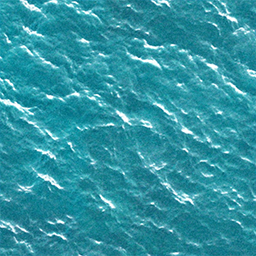
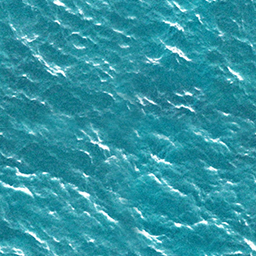
Adds basic water material

diff --git a/src/client/engine/Chunk.ts b/src/client/engine/Chunk.ts
@@ -4,6 +4,7 @@ import ChunkWorld from './ChunkWorld';
 import Doodad from './Doodad';
 import TerrainMaterial, { ImageData3D } from './graphics/materials/TerrainMaterial';
 import AssetManager from './asset/AssetManager';
+import WaterMaterial from './graphics/materials/WaterMaterial';
 
 export default class Chunk {
     public def: ChunkDef;
@@ -18,15 +19,19 @@ export default class Chunk {
     private minimapCanvas: OffscreenCanvas;
     public get minimap(): OffscreenCanvas { return this.minimapCanvas; }
 
-    public constructor(def: ChunkDef, world: ChunkWorld, material: TerrainMaterial) {
+    private waterMaterial: WaterMaterial;
+
+    public constructor(def: ChunkDef, world: ChunkWorld, material: TerrainMaterial, waterMat: WaterMaterial) {
         this.def = def;
         this.world = world;
         this.material = material;
+        this.waterMaterial = waterMat;
         this._isLoaded = false;
         const geometry = this.generateTerrain();
         geometry.computeVertexNormals();
 
-        this.terrain = new THREE.Mesh(geometry, material);
+        // this.terrain = new THREE.Mesh(geometry, material);
+        this.terrain = new THREE.Mesh(geometry, waterMat);
         this.terrain.name = 'terrain';
         this.terrain.receiveShadow = true;
         this.terrain.castShadow = true;
@@ -105,8 +110,11 @@ export default class Chunk {
 
     public static load(def: ChunkDef, world: ChunkWorld): Promise<Chunk> {
         return new Promise((resolve, reject) => {
-            AssetManager.loadTerrainTexture(def).then((tex) => {
-                resolve(new Chunk(def, world, new TerrainMaterial(tex)));
+            Promise.all([
+                AssetManager.loadTerrainTexture(def),
+                AssetManager.loadTexture('assets/terrain/water/diffuse.png'),
+            ]).then(([tex, waterTex]) => {
+                resolve(new Chunk(def, world, new TerrainMaterial(tex), new WaterMaterial(waterTex)));
             }).catch((err) => reject(err));
         });
     }
@@ -254,7 +262,7 @@ export default class Chunk {
             for (let ix = 0; ix < size; ix++) {
                 const x = ix * tileWidth - (size / 2);
                 const y = this.def.heightmap[iz * size + ix] || 0;
-                vertices.push(x, y, z);
+                vertices.push(x, 0.0, z); // FIXME
                 // const uvidx = (iz * size + ix) * 2;
                 // const u = this.def.texturemap[uvidx];
                 // const v = this.def.texturemap[uvidx + 1];
@@ -284,5 +292,9 @@ export default class Chunk {
         geom.setAttribute('uv', new THREE.Float32BufferAttribute(uvs, 2));
 
         return geom;
+    }
+
+    public update(delta: number): void {
+        this.waterMaterial.update(delta);
     }
 }

diff --git a/src/client/engine/graphics/materials/WaterMaterial.ts b/src/client/engine/graphics/materials/WaterMaterial.ts
@@ -1,0 +1,64 @@
+import * as THREE from 'three';
+import waterVertex from './shaders/water.v.glsl';
+import waterFrag from './shaders/water.f.glsl';
+
+export type ImageData3D = { data: Uint8Array, width: number, height: number, depth: number };
+
+export default class WaterMaterial extends THREE.ShaderMaterial {
+    public texture: THREE.Texture;
+    private time: number = 0;
+
+    public constructor(texture: THREE.Texture) {
+        super({
+            lights: true,
+            fog: true,
+
+            uniforms: {
+                u_tiling: { value: new THREE.Vector2(16, 16) },
+                u_diffuseMap: { value: texture },
+                u_time: { value: 0 },
+                u_amplitude: { value: 1 },
+                u_wavelength: { value: 2 },
+                u_flowRate: { value: new THREE.Vector2(0.05, 0.01) },
+
+                emissive: { value: new THREE.Vector3(0.0, 0.0, 0.0) },
+                opacity: { value: 1.0 },
+
+                // required for 'lights: true'
+                ambientLightColor: { value: null },
+                lightProbe: { value: null },
+                directionalLights: { value: null },
+                spotLights: { value: null },
+                rectAreaLights: { value: null },
+                pointLights: { value: null },
+                hemisphereLights: { value: null },
+                directionalShadowMap: { value: null },
+                directionalShadowMatrix: { value: null },
+                spotShadowMap: { value: null },
+                spotShadowMatrix: { value: null },
+                pointShadowMap: { value: null },
+                pointShadowMatrix: { value: null },
+
+                // required for 'fog: true'
+                fogColor: { value: new THREE.Color() },
+                fogNear: { value: null },
+                fogFar: { value: null },
+                fogDensity: { value: null },
+            },
+            vertexShader: waterVertex,
+            fragmentShader: waterFrag,
+        });
+
+        this.texture = texture;
+    }
+
+    public dispose(): void {
+        super.dispose();
+        this.texture.dispose();
+    }
+
+    public update(delta: number): void {
+        this.time += delta;
+        this.uniforms.u_time.value = this.time;
+    }
+}

diff --git a/src/client/engine/asset/AssetManager.ts b/src/client/engine/asset/AssetManager.ts
@@ -62,7 +62,6 @@ export function loadImage(src: string): Promise<HTMLImageElement> {
     });
 }
 
-
 export default class AssetManager {
     private static modelCache: Map<string, CachedModel> = new Map();
     private static atlasCache: Map<string, SpriteAtlas> = new Map();
@@ -108,6 +107,22 @@ export default class AssetManager {
             return atlas;
         }
         throw new Error(`Atlas not found in content definition: ${id}`);
+    }
+
+    public static loadTexture(src: string): Promise<THREE.Texture> {
+        return new Promise((resolve, reject) => {
+            const loader = new THREE.TextureLoader();
+            loader.load(
+                src,
+                (tex) => {
+                    tex.wrapS = THREE.RepeatWrapping;
+                    tex.wrapT = THREE.RepeatWrapping;
+                    resolve(tex);
+                },
+                (prog) => {},
+                (err) => reject(err),
+            );
+        });
     }
 
     public static async loadTerrainTexture(def: ChunkDef): Promise<TerrainTexture> {

diff --git a/src/editor/EditorChunkWorld.ts b/src/editor/EditorChunkWorld.ts
@@ -27,6 +27,7 @@ export default class EditorChunkWorld {
     public setWireframeVisibility(visible: boolean): void { this.world.setWireframeVisibility(visible); }
     public positionDoodads(): void { this.world.positionDoodads(); }
     public stitchChunks(): void { this.world.stitchChunks(); }
+    public update(delta: number): void { this.world.update(delta); }
 
     public async createNewChunk(x: number, y: number): Promise<void> {
         const size = this.chunkSize + 1;

diff --git a/src/client/engine/World.ts b/src/client/engine/World.ts
@@ -192,6 +192,7 @@ export default class World {
     }
 
     public update(delta: number, mousePoint: WorldPoint, intersects: THREE.Intersection[]): void {
+        this.chunkWorld.update(delta);
         this.player.update(delta);
         this.player.updateClientPlayer(mousePoint, intersects);
         this.updateUnits(delta);

diff --git a/src/client/engine/ChunkWorld.ts b/src/client/engine/ChunkWorld.ts
@@ -81,4 +81,10 @@ export default class ChunkWorld {
             chunk.positionDoodads();
         }
     }
+
+    public update(delta: number): void {
+        for (const [_x, _y, chunk] of this.chunks) {
+            chunk.update(delta);
+        }
+    }
 }

diff --git a/src/editor/EditorProps.ts b/src/editor/EditorProps.ts
@@ -33,5 +33,6 @@ export default class EditorProps {
                 break;
             }
         }
+        this.world.update(delta);
     }
 }
